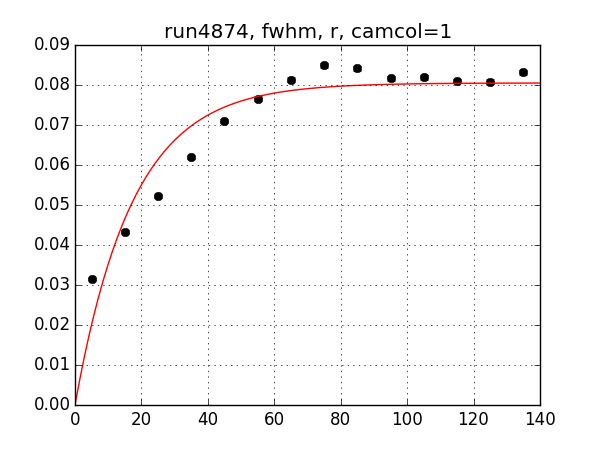
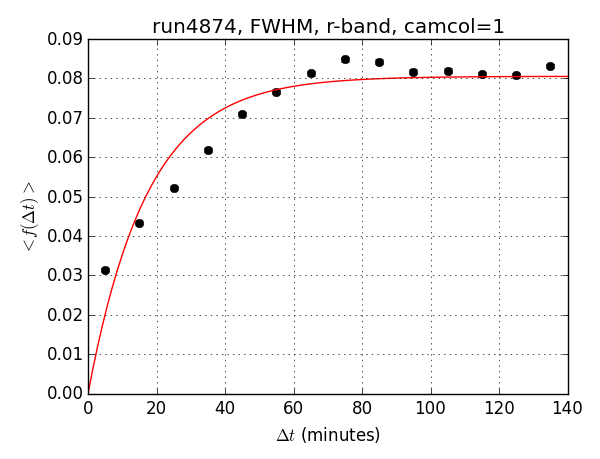
Bo revised figures and added Table 1

diff --git a/PSFprofile.tex b/PSFprofile.tex
@@ -12,7 +12,12 @@ Our fitting of each PSF profile is a 2-step process. First we fit the
 measured PSF profile to a \vk~PSF, with only one free parameter -
 the FWHM of the \vk~profile.  The \vk~PSF profile is generated by creating the atmosphere
 structure function first, as given by Eq. (18) in \cite{Tokovinin2002}, then calculating the
-PSF through the Optical Transfer Function. We have assumed a fiducial
+PSF through the Optical Transfer Function. 
+The radial profiles of the \vk~PSF with a few different values of
+outer scale is shown in Fig.~\ref{fig:vonK}.
+The shape variation due to uncertainty in the outer scale, $L_0$, is seen to
+be small.
+In this work, we have assumed a fiducial
 outer scale of 30 meters.
 Ideally, the Fried parameter $r_0$ would be used as the free
 parameter in the fit to the \vk~model. However, 
@@ -22,6 +27,16 @@ Instead, we opted to generate a single \vk~PSF template with the FWHM of
 1 arcsec. In our one-parameter \vk~fit, we only stretch or compress
 the template radially to get the best match with the data, in the
 least-square sense.
+
+\begin{figure}
+\centering
+\includegraphics[width=0.5\textwidth]{FIGURES/vonK.png}
+\caption{PSF radial profiles with the \vk~model for a few different
+  outer scale ($L_0$) values. All profiles have FWHM of 1 arcsec, and
+  are normalized to unit peak intensity. The \vk~model becomes
+  Kolmogorov when $L_0 = \infty$.
+\label{fig:vonK}}
+\end{figure}
 
 
 Although the fitted
@@ -62,9 +77,39 @@ but with $a$, $b$, and $c$ as additional free parameters.
 We used here run 94, field 0 for these one-time fits, but verified that 
 the results are stable for other choices of run and field. 
 These fits are very slow but need to be done only once.
+The values of $a$, $b$, and $c$ are given in Tab.~\ref{tab:abc}
 Although this second fitting step involves a 2-dimensional convolution,
 there is only one free parameter in the fit: $\eta$, the normalization of the
 instrument PSF tail. Each two-step PSF fit can be done in a few seconds.
+
+\begin{table}
+\begin{center}
+\caption{Values for instrumental PSF shape parameters $a$, $b$, and $c$.\label{tab:abc}}
+\begin{tabular}{c|c|rrrrrr}
+\tableline\tableline
+\multicolumn{2}{c|}{} & \multicolumn{6}{c}{Camera Column} \\\cline{3-8}
+\multicolumn{2}{c|}{} & 1 & 2 & 3 & 4 & 5 & 6\\\hline
+   & a($\times 10^{-3}$) & 2.2 & 2.2 & 1.1 & 2.2 & 2.2& 2.2\\
+ u& b($\times 10^{-1}$) & $-$1.7 & $-$1.7& $-$7.7 & $-$2.3 &$-$2.3 & $-$2.3\\
+   & c                             & $-$5.0 & $-$5.0& $-$6.0 & $-$5.0 & $-$5.0&$-$5.0 \\ \hline
+  & a($\times 10^{-3}$) & 2.7 & 2.7 & 2.2 & 2.2 & 2.7&2.7 \\
+ g& b($\times 10^{-1}$) & $-$1.7 & $-$1.7 & $-$1.7 & $-$1.7 &$-$1.7 & $-$1.7\\
+   & c                             & $-$5.0 & $-$5.0 & $-$5.0& $-$5.0 &$-$5.0 & $-$5.0\\\hline
+  & a($\times 10^{-3}$) & 2.4 & 2.4 & 2.4 & 2.9 &2.2 & 2.2\\
+ r& b($\times 10^{-1}$) & $-$1.6 & $-$1.6 & $-$1.6 & $-$1.6 &$-$1.7 & $-$1.7\\
+   & c                             & $-$5.0 & $-$5.0 & $-$5.0& $-$5.0&$-$5.0 & $-$5.0\\\hline
+  & a($\times 10^{-3}$) & 0.7 & 1.1& 0.7 & 0.7 & 0.8& 0.2\\
+ i& b($\times 10^{-1}$) & $-$0.8 & $-$0.9 & $-$0.8 & $-$0.8 &$-$0.9 & $-$0.8\\
+   & c                             & $-$5.0 & $-$5.0 & $-$5.0 & $-$5.0 &$-$5.0 & $-$5.0\\\hline
+  & a($\times 10^{-3}$) & 3.1 & $-$2.2 & 3.1 & 2.2 &3.1 & 2.2\\
+ z& b($\times 10^{-1}$) & $-$2.0 & $-$1.0 & $-$2.0 & $-$1.5 &$-$2.2 & $-$2.3\\
+   & c                             & $-$5.0 & $-$5.0 & $-$5.0 & $-$5.0&$-$5.0 & $-$5.0\\
+\tableline
+\end{tabular}
+\end{center}
+\end{table}
+
+
 
 
 \begin{figure}

diff --git a/FWHManalysis.tex b/FWHManalysis.tex
@@ -171,13 +171,25 @@ Following~\cite{Racine1996}, we also define the structure-function-like quantity
 where $\theta$ is seeing.
 We then fit the mean value of $f(\Delta t)$ to 
 \begin{equation}
-    < f(\Delta t) > =  f(\Delta t) ^\infty \, \left[ 1 - \exp(-\Delta t/\tau)^\gamma \right],
+    < f(\Delta t) > =  f(\Delta t) ^\infty \, \left[ 1 - \exp(-\Delta
+      t/\tau)^\gamma \right],
+\label{eq:fdt}
 \end{equation} 
-with $\tau$ and $\gamma$ as free parameters.
+with $f(\Delta t) ^\infty$, $\tau$ and $\gamma$ as free parameters.
 The timescale $\tau$ is found to be mostly within the range of 15 to
 25 minutes, and $\gamma$ between 1.0 and 1.5.
+Fig.~\ref{fig:fdt} shows one example of such fits.
 %note: fits do not look as good as Fig 4 in Racine 1997.
-% see output/correlate_temporal/run4874_fwhm_sf_r.png
+
+\begin{figure}
+\centering
+\includegraphics[width=0.5\textwidth]{FIGURES/fdt.png}
+\caption{The average normalized seeing difference, $<f(\Delta t)>$, as
+  a function of the time separation, $\Delta t$, for run 4874, camera
+  column 1, in the $r$-band.
+The fit to Eq.~(\ref{eq:fdt}) gives $\tau = 20.2$ minutes and $\gamma$ = 1.16.
+\label{fig:psd}}
+\end{figure}
 
 \begin{figure}
 \centering
@@ -186,7 +198,7 @@ The timescale $\tau$ is found to be mostly within the range of 15 to
 Combining fit results for all camera columns and optical bands for
 this run
 gives $\tau = 15.1 \pm 1.4$ minutes.
-\label{fig:psd}}
+\label{fig:fdt}}
 \end{figure}
 
 \begin{figure}

diff --git a/analysis/source/correlate_temporal_sf.py b/analysis/source/correlate_temporal_sf.py
@@ -188,16 +188,18 @@ def main():
                     fid.write('%5.0f\t %5.0f\n' % (tau, tauerr))
                     fid.write('%5.2f\t %5.2f\n' % (gamma, gammaerr))
                     
-                plt.figure(figsize=(6,4.5))
+                plt.figure(figsize=(6,4.6))
                 plt.errorbar(mySep, mySF, mySFstd, fmt = 'ok')
                 myX = np.linspace(0, mySep[0]+mySep[-1], 100)
                 myY = fdt(myX, A, tau, gamma)
                 chi2 = fdtChi2(mySep, popt, mySF, mySFstd)
                 plt.plot(myX, myY, 'r-')
                 
-                plt.title('run%d, %s, %s, camcol=%s' %
-                            (run, fwhmStr, sdss.band[band], camcol))
+                plt.title('run%d, %s, %s-band, camcol=%s' %
+                            (run, fwhmStr.upper(), sdss.band[band], camcol))
                 plt.grid()
+                plt.xlabel(r'$\Delta t$ (minutes)')
+                plt.ylabel(r'$<f(\Delta t)>$')
                 # plt.show()
                 
             if (args.startfield == 0 and args.endfield == 99999):
@@ -207,7 +209,7 @@ def main():
                 pngname = 'output/correlate_temporal/run%d_%s_sf_%s_fld_%d_%d.png' %(
                     run, fwhmStr, sdss.band[band], args.startfield, args.endfield)
                 
-            # plt.tight_layout()
+            plt.tight_layout()
             plt.savefig(pngname)
             plt.close()
         

diff --git a/analysis/source/correlate_temporal_bin.py b/analysis/source/correlate_temporal_bin.py
@@ -208,7 +208,11 @@ def main():
                     # popt = [1e4, 6e-4]
                     # myY1 = 10**logpsdfunc(myX, popt[0], popt[1])
                     # ax1[iRow, iCol].loglog(opsimf*3600, opsimpsd, linestyle = 'None', marker='.', color='y', markersize=10)#, c='#AAAAAA')
-                    ax1[iRow, iCol].loglog(f*3600, PSD, linestyle = 'None', marker='.', color='k', markersize=10)#, c='#AAAAAA')
+                    # ax1[iRow, iCol].loglog(f*3600, PSD, linestyle = 'None', marker='.', color='k', markersize=10)#, c='#AAAAAA')
+                    lower_error = 10**(mySF)-10**(mySF-mySFstd)
+                    upper_error = 10**(mySF+mySFstd)-10**(mySF)
+                    asymmetric_error = [lower_error, upper_error]
+                    ax1[iRow, iCol].errorbar((10**mySep)*3600, 10**mySF, asymmetric_error, fmt='ok')
                     # ax1[iRow, iCol].loglog(fW1, PSDW1,'-k')
                     # ax1[iRow, iCol].loglog(fW2, PSDW2,'-r')
                     ax1[iRow, iCol].loglog(myX*3600, myY, 'r-')

diff --git a/analysis/source/draw_1run_1field_vK_2G.py b/analysis/source/draw_1run_1field_vK_2G.py
@@ -70,7 +70,18 @@ def main():
 
             psf = sdsspsf(hdu1, args.ifield, iBand, run, camcol)
             psf.tailP = tailPar[iBand*nCamcol + camcol-1]
-            
+
+            # convert tailP into abc, so that we can put them in Latex table.----
+            x1= psf.tailP[3]
+            y1= psf.tailP[4]
+            x2 =psf.tailP[5]
+            y2 =psf.tailP[6]
+            x3 =psf.tailP[7]
+            y3 =psf.tailP[8]
+            abcM = np.array([[x1**2, x1, 1], [x2**2, x2, 1], [x3**2, x3, 1]])
+            abc = np.dot(np.linalg.inv(abcM), np.array([[y1] ,[y2], [y3]]))
+            # end of ----
+    
             psf.fit2vonK_curve_fit(vonK1arcsec, vonK2D, grid1d)
             if psf.scaleR < -1:
                 psf.fit2vonK_fmin(vonK1arcsec, vonK2D, grid1d)
